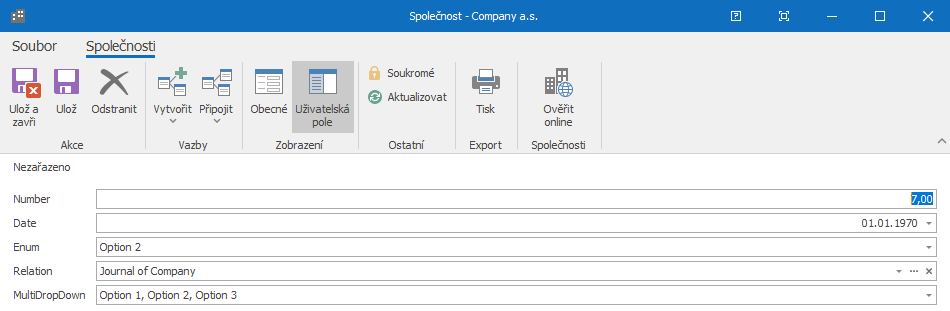
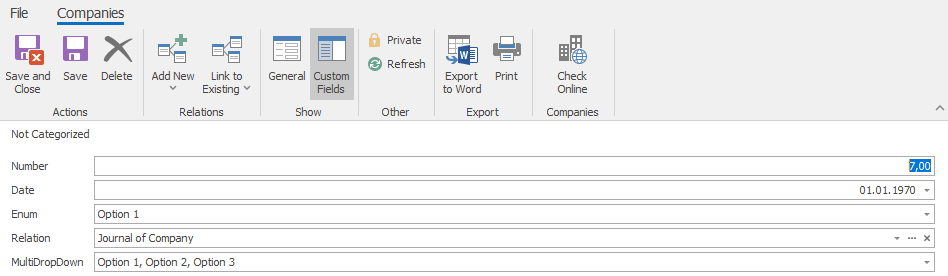
refs #36052: Reflecting on feedback

diff --git a/Examples/AdditionalFields/sample_code.php b/Examples/AdditionalFields/sample_code.php
@@ -5,55 +5,16 @@
     
     // Connect to API
     $connector = new eWayConnector('https://trial.eway-crm.com/31994', 'api', 'ApiTrial@eWay-CRM');
-    
-    // Here we prepare criteria of enum type search
-    $criteria = array(
-                       'EnumName' => 'AF_27'
-                    );
-    
-    // Search enum type of our enum additional field
-    $enumType = $connector->searchEnumTypes($criteria);
-    
-    // Here we prepare criteria of enum values search
-    $criteria = array(
-                       'EnumType' => $enumType->Data[0]->ItemGUID
-                    );
-    
-    // Search Enum type of our enum additional field
-    $enumValues = $connector->searchEnumValues($criteria);
-    
-    // Here we prepare criteria of enum type search
-    $criteria = array(
-                       'EnumName' => 'AF_29'
-                    );
-    
-    // Search enum type of our MultiDropDown additional field
-    $multiDropDownType = $connector->searchEnumTypes($criteria);
-    
-    // Here we prepare criteria of MultiDropDown values search
-    $criteria = array(
-                       'EnumType' => $multiDropDownType->Data[0]->ItemGUID
-                    );
-    
-    // Search Enum type of our MultiDropDown additional field
-    $multiDropDownValues = $connector->searchEnumValues($criteria);
-    
-    // This is new journal we want to create
-    $newJournal = array(
-                        'FileAs' => 'Journal of Company',
-                        'Note' => 'this is journal of Company.'
-                        );
-    
-    // Try to save new journal
-    $journal = $connector->saveJournal($newJournal);
-    
+
     // Fill the additional fields
     $additionalFieldsValues = array(
                                     'af_25' => '7',
                                     'af_26' => '1970-01-01',
-                                    'af_27' => pickEnum('Option 1', $enumValues->Data),
-                                    'af_28' => $journal->Guid,
-                                    'af_29' => array(pickEnum('Option 1', $multiDropDownValues->Data), pickEnum('Option 2', $multiDropDownValues->Data), pickEnum('Option 3', $multiDropDownValues->Data))
+                                    'af_27' => pickEnum('Option 1', loadEnumValues('AF_27', $connector)->Data),
+                                    'af_28' => '10992e33-c0d6-4a2e-b565-5babc646fd48',
+                                    'af_29' => array(pickEnum('Option 1', loadEnumValues('AF_29', $connector)->Data),
+                                                     pickEnum('Option 2', loadEnumValues('AF_29', $connector)->Data),
+                                                     pickEnum('Option 3', loadEnumValues('AF_29', $connector)->Data))
                                 );
 
     // This is new company, that we want to create
@@ -68,7 +29,11 @@
     
     // Try to save new company
     $company = $connector->saveCompany($newCompany);
-
+    
+    // Display the raw data of company's additional fields
+    var_dump($connector->searchCompanies(array('ItemGUID' => $company->Guid))->Data[0]->AdditionalFields);
+    
+    // Function for picking Enum option by name
     function pickEnum ($name , $values)
     {
         foreach($values as $value)
@@ -78,5 +43,15 @@
                 return $value->ItemGUID;
             }
         }
+    }
+    
+    // Function for loading Enum options by additional field name
+    function loadEnumValues($fieldNumber, $connector)
+    {
+        $criteria = array(
+                          'EnumTypeName' => $fieldNumber
+                        );
+        
+        return $connector->searchEnumValues($criteria);
     }
 ?>

diff --git a/Examples/AdditionalFields/README.md b/Examples/AdditionalFields/README.md
@@ -1,71 +1,19 @@
 
 # Manipulating with additional fields
-This example should provide some insight into manipulation with additional fields, namely fields of numeric, date, enum, relation and multi dropdown type.
-
-## Searching for values of the enum additional field
-We are looking for enumType of the enum additional field. We will use number of the additional field (formatted AF_ and number of the field, which you can find in administration application of eWay-CRM) as parameter of  `$connector->searchEnumTypes()` and with "ItemGUID" of the found data as parameter for `$connector->searchEnumValues()` and find the values.
-```php
-// Here we prepare criteria of enum type search
-$criteria = array(
-                   'EnumName' => 'AF_27'
-                );
-
-// Search enum type of our enum additional field
-$enumType = $connector->searchEnumTypes($criteria);
-
-// Here we prepare criteria of enum values search
-$criteria = array(
-                   'EnumType' => $enumType->Data[0]->ItemGUID
-                );
-
-// Search Enum type of our enum additional field
-$enumValues = $connector->searchEnumValues($criteria);
-```
-
-## Searching for values of the multi dropdown additional field
-We can do that the same way as we did the enum values.  Search ''EnumType" by AF_ number with `$connector->searchEnumTypes()`, then search values themselves with `$connector->searchEnumValues()`. There is one difference..
-```php
-// Here we prepare criteria of enum type search
-$criteria = array(
-                   'EnumName' => 'AF_29'
-                );
-
-// Search enum type of our MultiDropDown additional field
-$multiDropDownType = $connector->searchEnumTypes($criteria);
-
-// Here we prepare criteria of MultiDropDown values search
-$criteria = array(
-                   'EnumType' => $multiDropDownType->Data[0]->ItemGUID
-                );
-
-// Search Enum type of our MultiDropDown additional field
-$multiDropDownValues = $connector->searchEnumValues($criteria);
-```
-
-## Relation additional field value
-Relation additional field require foreign key as value (GUID) so we create new journal to use its GUID as the value.
-```php
-// This is new journal we want to create
-$newJournal = array(
-                    'FileAs' => 'Journal of Company',
-                    'Note' => 'this is journal of Company.'
-                    );
-
-// Try to save new journal
-$journal = $connector->saveJournal($newJournal);
-```
+This example should provide some insight into manipulation with additional fields, namely fields of numeric, date, enum, relation and multi dropdown type. (This example is assuming that you know names of additional fields and in case of selections,  names of the options you want to choose. These can be found in eWay-CRM administration application.)
 
 ## Create company with additional fields
-Now we prepare array with all the additional fields. Number and date takes values as usual. Enum field will be filled with option we choose from our prepared search.Next is the relation with GUID of the journal that we created as value.And last is DropDown with array of Dropdown options of our choice as value. Now we have everything prepared, we create array with specifications of company. Here we can use our additional fields array as value for "AditionalFields". Then we save the company by  `$connector->saveCompany()`.
+Here we prepare array with all the additional fields. Number and date takes values as usual. Enum field will be filled with option we choose.Next is the relation with GUID of the journal that we created as value.And last is DropDown with array of Dropdown options of our choice as value. Now we have everything prepared, we create array with specifications of company. Here we can use our additional fields array as value for "AditionalFields". Then we save the company by  `$connector->saveCompany()`. (Getting values for enum and dropdown fields can get a little bit tricky, so we have prepared two functions to ease the access. Only thing left up to you is to fill the name of additional field and option that you want to put in it.)
 ```php
-// Fill the additional fields
 // Fill the additional fields
 $additionalFieldsValues = array(
                                 'af_25' => '7',
                                 'af_26' => '1970-01-01',
-                                'af_27' => $enumValues->Date[0]->ItemGUID,
-                                'af_28' => $journal->Guid,
-                                'af_29' => array(pickEnum('Option 1', $multiDropDownValues->Data), pickEnum('Option 2', $multiDropDownValues->Data), pickEnum('Option 3', $multiDropDownValues->Data))
+                                'af_27' => pickEnum('Option 1', loadEnumValues('AF_27', $connector)->Data),
+                                'af_28' => '10992e33-c0d6-4a2e-b565-5babc646fd48',
+                                'af_29' => array(pickEnum('Option 1', loadEnumValues('AF_29', $connector)->Data),
+                                                 pickEnum('Option 2', loadEnumValues('AF_29', $connector)->Data),
+                                                 pickEnum('Option 3', loadEnumValues('AF_29', $connector)->Data))
                             );
 
 // This is new company, that we want to create
@@ -81,6 +29,18 @@ $newCompany = array(
 // Try to save new company
 $company = $connector->saveCompany($newCompany);
 ```
+
+## Output
+As a result, you should see the newly created company with filled additional fields in your outlook.
+![example output](Images/sample_output.PNG)
+
+In this example we also added raw data output done by `var_dump($connector->searchCompanies())` with GUID of the newly created company as parameter for you to see how the additional fields looks on the company.
+```console
+object(stdClass)[2]
+  public 'af_25' => float 7
+  public 'af_26' => string '1970-01-01 00:00:00Z' (length=20)
+  public 'af_27' => string '2496b50a-09ae-4804-bcdf-03e79bbd014d' (length=36)
+``` 
 
 ## Sample code
 To see the whole sample code click [here](sample_code.php).
